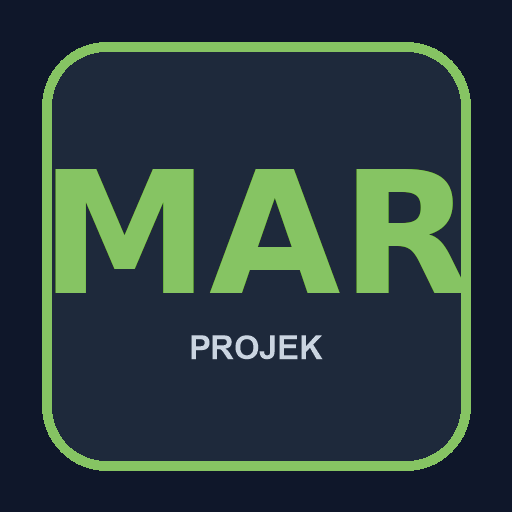
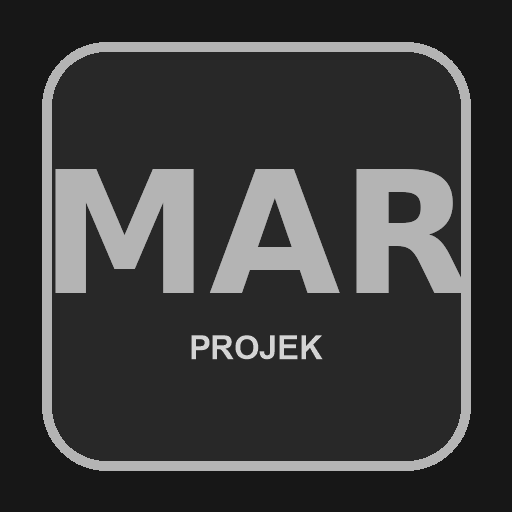
style: ubah warna tema dari hijau zaitun ke abu-abu
Warna tema (#4F633F dan turunannya), gradasi login, theme-color, manifest,
dan ikon kini abu netral dengan kecerahan setara, jadi kontras teks terjaga.
Warna bermakna status (Approved, tombol Start, tepat waktu) sengaja tetap.
Versi dinaikkan bersamaan: APP_VERSION projek-v2, CACHE mar-projek-v2.

Changed region(s): [[0.0625, 0.0625, 0.875, 0.875], [0.125, 0.125, 0.9375, 0.9375]]

diff --git a/index.html b/index.html
@@ -3,7 +3,7 @@
 <head>
   <meta charset="UTF-8">
   <meta name="viewport" content="width=device-width, initial-scale=1, maximum-scale=1">
-  <meta name="theme-color" content="#4F633F">
+  <meta name="theme-color" content="#5E5E5E">
   <link rel="manifest" href="./manifest.json">
   <link rel="icon" href="./icon-192.png">
   <!-- iOS: dukungan Add to Home Screen (Safari tidak baca manifest sepenuhnya) -->
@@ -17,12 +17,12 @@
     :root{
       --bg:#F8FAFC;--bg-secondary:#F3F4F6;--card:#FFFFFF;--border:#E5E7EB;
       --text:#111827;--text-secondary:#6B7280;--text-disabled:#9CA3AF;
-      --primary:#4F633F;--primary-hover:#384B2B;--primary-active:#223215;
-      --primary-soft:#EEFEDA;--primary-container:#D2E9BB;
+      --primary:#5E5E5E;--primary-hover:#474747;--primary-active:#2F2F2F;
+      --primary-soft:#F1F1F1;--primary-container:#E2E2E2;
       --success:#10B981;--warning:#F59E0B;--error:#EF4444;
       --input-border:#D1D5DB;--radius:16px;--radius-sm:10px;
       --shadow:0 4px 12px rgba(0,0,0,.05);--shadow-hover:0 8px 24px rgba(0,0,0,.08);
-      --focus-ring:0 0 0 3px rgba(79,99,63,.25);
+      --focus-ring:0 0 0 3px rgba(94,94,94,.25);
     }
     *{box-sizing:border-box;margin:0;padding:0;-webkit-tap-highlight-color:transparent}
     body{font-family:system-ui,-apple-system,'Segoe UI',Roboto,sans-serif;background:var(--bg);color:var(--text);min-height:100vh}
@@ -208,13 +208,13 @@
     .syncbar button{flex:0 0 auto}
     .chkRow{display:flex;align-items:center;gap:6px;margin:6px 0;font-size:13px;color:var(--text)}
     .chkRow input[type="checkbox"]{width:18px;height:18px;accent-color:var(--primary)}
-    /* ── LAYAR LOGIN (port UX SUM V2; dipakai gradasi hijau zaitun, bukan foto.
+    /* ── LAYAR LOGIN (port UX SUM V2; dipakai gradasi abu-abu, bukan foto.
        Warnanya sengaja BEDA dari tema lain: dua sistem sewarna
        membuat orang salah memasukkan data ke sistem yang keliru.) ── */
     #screen-login.loginBg{
       position:fixed;top:0;left:0;right:0;bottom:0;max-width:none;margin:0;padding:20px 0;
       display:flex;align-items:center;justify-content:center;overflow-y:auto;z-index:20;
-      background:linear-gradient(160deg,#0F1F04 0%,#223215 45%,#4F633F 100%);
+      background:linear-gradient(160deg,#1C1C1C 0%,#2F2F2F 45%,#5E5E5E 100%);
     }
     /* margin:auto pada anak flex = benar-benar di tengah, dan tetap bisa di-scroll
        bila layar pendek / keyboard HP terbuka (tidak terpotong di atas). */
@@ -257,7 +257,7 @@
     .compact-wo-item.selected-wo-card {
       border: 2px solid var(--primary) !important;
       background: var(--primary-soft) !important;
-      box-shadow: 0 4px 14px rgba(79, 99, 63, 0.22) !important;
+      box-shadow: 0 4px 14px rgba(94, 94, 94, 0.22) !important;
     }
     .compact-card-header {
       display: flex;
@@ -294,7 +294,7 @@
       background: var(--card);
     }
     .compact-card-body:hover {
-      background: rgba(79, 99, 63, 0.03);
+      background: rgba(94, 94, 94, 0.03);
     }
     .c-col {
       display: flex;
@@ -447,7 +447,7 @@
     .compact-detail-pane {
       display: none;
       border-top: 1px solid var(--border);
-      background: #FAFDF7;
+      background: #FBFBFB;
       padding: 14px 16px;
       font-size: 12px;
       animation: fadeInDetail 0.2s ease;
@@ -550,7 +550,7 @@
     .card.selected-wo-card {
       border: 2px solid var(--primary) !important;
       background: var(--primary-soft) !important;
-      box-shadow: 0 4px 14px rgba(79, 99, 63, 0.22) !important;
+      box-shadow: 0 4px 14px rgba(94, 94, 94, 0.22) !important;
     }
     #bulkConfirmModal {
       align-items: flex-end;
@@ -754,7 +754,7 @@
       <p class="sub">Token dari admin, cukup diisi SEKALI.</p>
       <input class="inp" id="tokenInput" placeholder="token..." autocomplete="off" autocapitalize="off" autocorrect="off" spellcheck="false">
       <button class="big" id="btnLogin" onclick="doLogin()">Masuk</button>
-      <div id="loginLoading" style="display:none;margin-top:10px;text-align:center;font-size:13px;font-weight:700;color:#3E4F32"><span class="spin"></span> Memeriksa token…</div>
+      <div id="loginLoading" style="display:none;margin-top:10px;text-align:center;font-size:13px;font-weight:700;color:#4C4C4C"><span class="spin"></span> Memeriksa token…</div>
     </div>
     </div>
   </div>
@@ -941,8 +941,8 @@
         <label>Keterangan (opsional)</label>
         <input class="inp" id="cKet" placeholder="cth: unit di pit 3">
       </div>
-      <div class="panel" id="cPreview" style="display:none;background:#F1F4EE;border-color:#C8D4BC;padding:11px;margin-bottom:10px">
-        <div class="sub" style="margin:0 0 4px;font-weight:700;color:#3E4F32">📊 Preview Poin</div>
+      <div class="panel" id="cPreview" style="display:none;background:#F3F3F3;border-color:#D1D1D1;padding:11px;margin-bottom:10px">
+        <div class="sub" style="margin:0 0 4px;font-weight:700;color:#4C4C4C">📊 Preview Poin</div>
         <div id="cPreviewBody" style="font-size:13px;color:#111827"></div>
       </div>
       <!-- Keranjang baris grup — hanya tampil saat mode grup dipilih -->

diff --git a/app.js b/app.js
@@ -18,7 +18,7 @@ var CONFIG = { API_URL: 'https://script.google.com/macros/s/AKfycbykSslm5SFzAHRG
 // service worker yang benar-benar aktif (lihat syncVersionFromCache).
 // Dengan begitu rilis cukup mengubah CACHE di sw.js; angka di sini tak bisa lagi
 // tertinggal diam-diam seperti dulu (APP_VERSION v26 vs CACHE v34).
-var APP_VERSION = 'projek-v1'; // cadangan; nilai sebenarnya dibaca dari CACHE sw.js (syncVersionFromCache)
+var APP_VERSION = 'projek-v2'; // cadangan; nilai sebenarnya dibaca dari CACHE sw.js (syncVersionFromCache)
 
 // ── Pembaruan versi otomatis ────────────────────────────────────────────────
 // sw.js sudah skipWaiting()+clients.claim(), jadi versi baru mengambil alih
@@ -549,7 +549,7 @@ function showSendProgress(idx, total, op) {
   if (!el) return;
   var label = op ? (opLabel(op) || '') : '';
   el.textContent = '📤 Mengirim ' + idx + '/' + total + (label ? ' · ' + label : '') + '…';
-  el.style.color = '#4F633F';
+  el.style.color = '#5E5E5E';
 }
 
 /* ── API ── */
@@ -2624,7 +2624,7 @@ function badgeFor(wo,pendingOp) {
     // 'done' TIDAK menimpa: pakai status asli WO agar berubah (Terkirim→L1→L2→Approved) setelah sync
   }
   var s=String(wo.status||'');
-  if (s==='pending_mechanic_work') return ['📝 Perlu diisi','#4F633F'];
+  if (s==='pending_mechanic_work') return ['📝 Perlu diisi','#5E5E5E'];
   if (s==='pending_supervisor') return ['⏳ L1','#7c3aed'];
   if (s==='pending_superintendent') return ['⏳ L2','#7c3aed'];
   if (s==='approved') return ['✅ Approved','#15803d'];
@@ -2704,7 +2704,7 @@ function renderMonitorTab(el) {
   // keterangan ini orang melihat angkanya turun dan mengira datanya hilang.
   var html = '<div class="card" style="padding:12px">'+
     '<b>Ringkasan scope Anda</b>'+
-    (ov.periode ? '<span class="badge" style="background:#4F633F;margin-left:6px">'+esc(ov.periode)+'</span>' : '')+
+    (ov.periode ? '<span class="badge" style="background:#5E5E5E;margin-left:6px">'+esc(ov.periode)+'</span>' : '')+
     '<div class="sub" style="margin-top:4px">'+
       '📝 Perlu diisi: <b>'+(ov.pending_mechanic_work||0)+'</b> · '+
       '⏳ L1: <b>'+(ov.pending_l1||0)+'</b> · '+
@@ -2751,7 +2751,7 @@ function salinToken(tok, btn) {
  * dipakai daripada gulir panjang yang menuntut mekanik memilah sendiri.
  */
 var BAGIAN_WO = [
-  {id:'aktif',    judul:'Perlu Dikerjakan', ikon:'🔧', warna:'#4F633F',
+  {id:'aktif',    judul:'Perlu Dikerjakan', ikon:'🔧', warna:'#5E5E5E',
    sub:'belum diisi / sedang dikerjakan', st:['pending_mechanic_work','in_progress']},
   {id:'transfer', judul:'Menunggu Transfer', ikon:'🔁', warna:'#c2410c',
    sub:'menunggu keputusan L1', st:['pending_transfer']},
@@ -2884,7 +2884,7 @@ function _kartuWo(daftar, opByWo, totalGrup, kirimGrup) {
       var totalG = gid ? (totalGrup[gid] || G.baris.length) : G.baris.length;
       html += '<div class="grupHead">'+
         '<div class="cardTop" style="margin-bottom:4px"><b>📦 '+judul+'</b>'+
-        '<span class="badge" style="background:#4F633F">'+(G.mode==='job'?'1 JOB · BANYAK UNIT':'1 UNIT · BANYAK JOB')+'</span></div>'+
+        '<span class="badge" style="background:#5E5E5E">'+(G.mode==='job'?'1 JOB · BANYAK UNIT':'1 UNIT · BANYAK JOB')+'</span></div>'+
         '<div class="cardBody">📍 '+esc(locLabel(w0.location))+' · Kondisi: '+esc(wcLabel(w0.work_condition))+
         timKerjaStr(w0.team)+
         // Kemajuan borongan: mekanik perlu tahu tinggal berapa lagi, bukan
@@ -3133,7 +3133,7 @@ var WARNA = {
   onTime:    '#15803d',   // hijau  — tepat waktu
   late:      '#c2410c',   // oranye — terlambat
   wayLate:   '#b91c1c',   // merah  — sangat terlambat
-  grup:      '#4F633F',   // tertiary green — bagian borongan
+  grup:      '#5E5E5E',   // abu tema — bagian borongan
   // Perhatian — "hal yang wajib disadari sebelum memutuskan"
   mekanik:   '#be185d',   // magenta — dibuat mekanik sendiri
   override:  '#4338ca',   // indigo  — angka sudah diubah approver
@@ -4171,7 +4171,7 @@ function renderActiveList(){
   var html='<div class="sub">'+S.active.length+' WO aktif — belum di-submit mekanik</div>';
   S.active.forEach(function(wo){
     var othersBadge = wo.is_others ? '<span class="badge" style="background:'+WARNA.others+'">Others</span>' : '';
-    html+='<div class="card"><div class="cardTop"><b>'+esc(wo.wo_number)+'</b><span class="badge" style="background:#4F633F">📝 Belum diisi</span>'+
+    html+='<div class="card"><div class="cardTop"><b>'+esc(wo.wo_number)+'</b><span class="badge" style="background:#5E5E5E">📝 Belum diisi</span>'+
       (wo.section?'<span class="badge" style="background:#334155">'+esc(wo.section)+'</span>':'')+othersBadge+'</div>'+
       // Label–nilai sejajar, sama seperti kartu approval. Unit WAJIB ada:
       // tanpa itu approver tahu pekerjaannya apa tapi tidak tahu di alat mana.

diff --git a/sw.js b/sw.js
@@ -1,4 +1,4 @@
-var CACHE = 'mar-projek-v1';
+var CACHE = 'mar-projek-v2';
 var ASSETS = ['./', './index.html', './app.js', './manifest.json', './icon-192.png', './icon-512.png'];
 self.addEventListener('install', function(e) {
   // cache:'reload' — WAJIB. addAll() memakai cache HTTP biasa, jadi app.js bisa

diff --git a/README.md b/README.md
@@ -10,9 +10,9 @@ hanya layar; ia tidak pernah menghitung uang sendiri.
 Web app    https://script.google.com/macros/s/AKfycbykSslm5SFzAHRGJRLApDVNvR2JvZzW_Y3JEazdXaISJxADGlXwEWXHNg9pwpr4SJ73/exec
 Script     1EMxIxcP1NMqLyjaaFOMbldYBGDdF_mb0OCLjbd3In0PymjTAoUR2XLiM
 Spreadsheet 1_4dluYh821clhVeiUDn2B7auwFPNlTcB56_g4bhFi58
-Cache      mar-projek-v1
+Cache      mar-projek-v2
 IndexedDB  mar_projek_v1 (versi 1)
-Warna      #4F633F (hijau zaitun) — KMB V2 memakai biru #2563EB
+Warna      #5E5E5E (abu-abu) — KMB V2 memakai biru #2563EB
 ```
 
 Kode backend-nya ada di `../MAR-PROJEK-KMB`. Panduan lengkap sistemnya ada di
@@ -31,7 +31,7 @@ Disalin dari `../mar-offline-share` (cetakan bersih PWA KMB V2). Yang diganti:
 | 5 | `app.js:58` | regex `(mar-v\d+)` | `(mar-projek-v\d+)` |
 | 6 | `app.js:143` | regex `^mar-(v\d+)$` | `^mar-(projek-v\d+)$` |
 | 7 | `app.js` + `sw.js` | `indexedDB.open('mar_v2',2)` | `('mar_projek_v1',1)` |
-| 8 | `manifest.json`, `index.html` | merek & warna KMB V2 | Projek KMB, zaitun |
+| 8 | `manifest.json`, `index.html` | merek & warna KMB V2 | Projek KMB, abu-abu |
 | 9 | `sw.js` activate | hapus semua cache lain | hanya awalan `mar-projek-v` |
 
 **Titik 1 dan 2 harus selalu sama persis.** Service worker tidak bisa membaca
